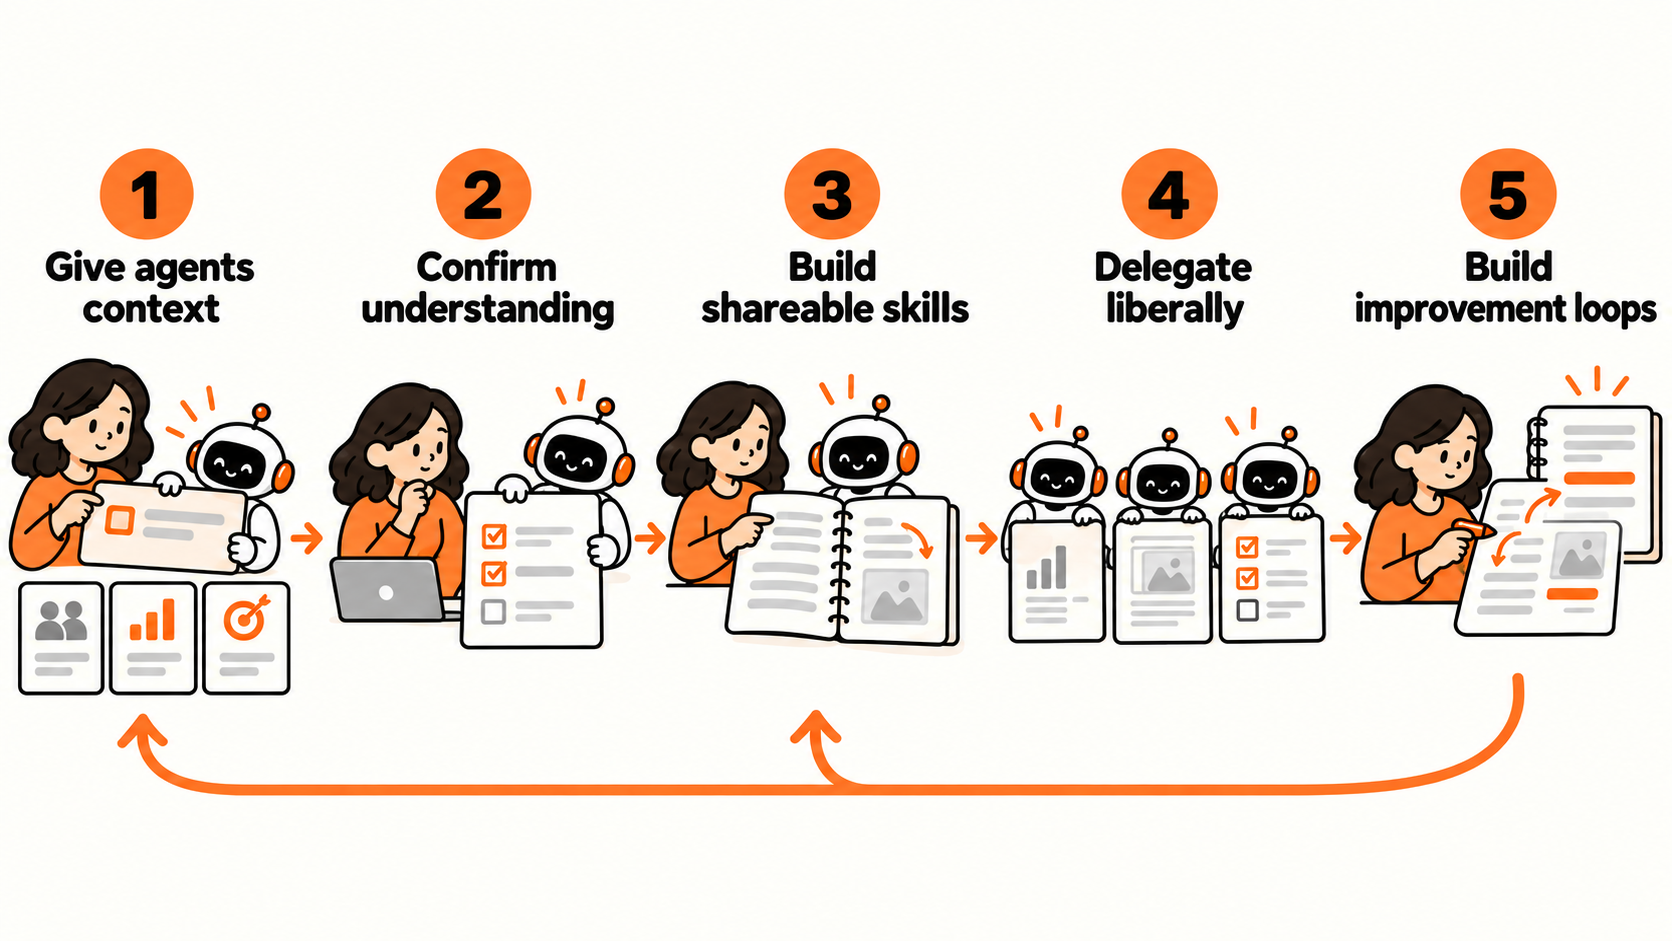
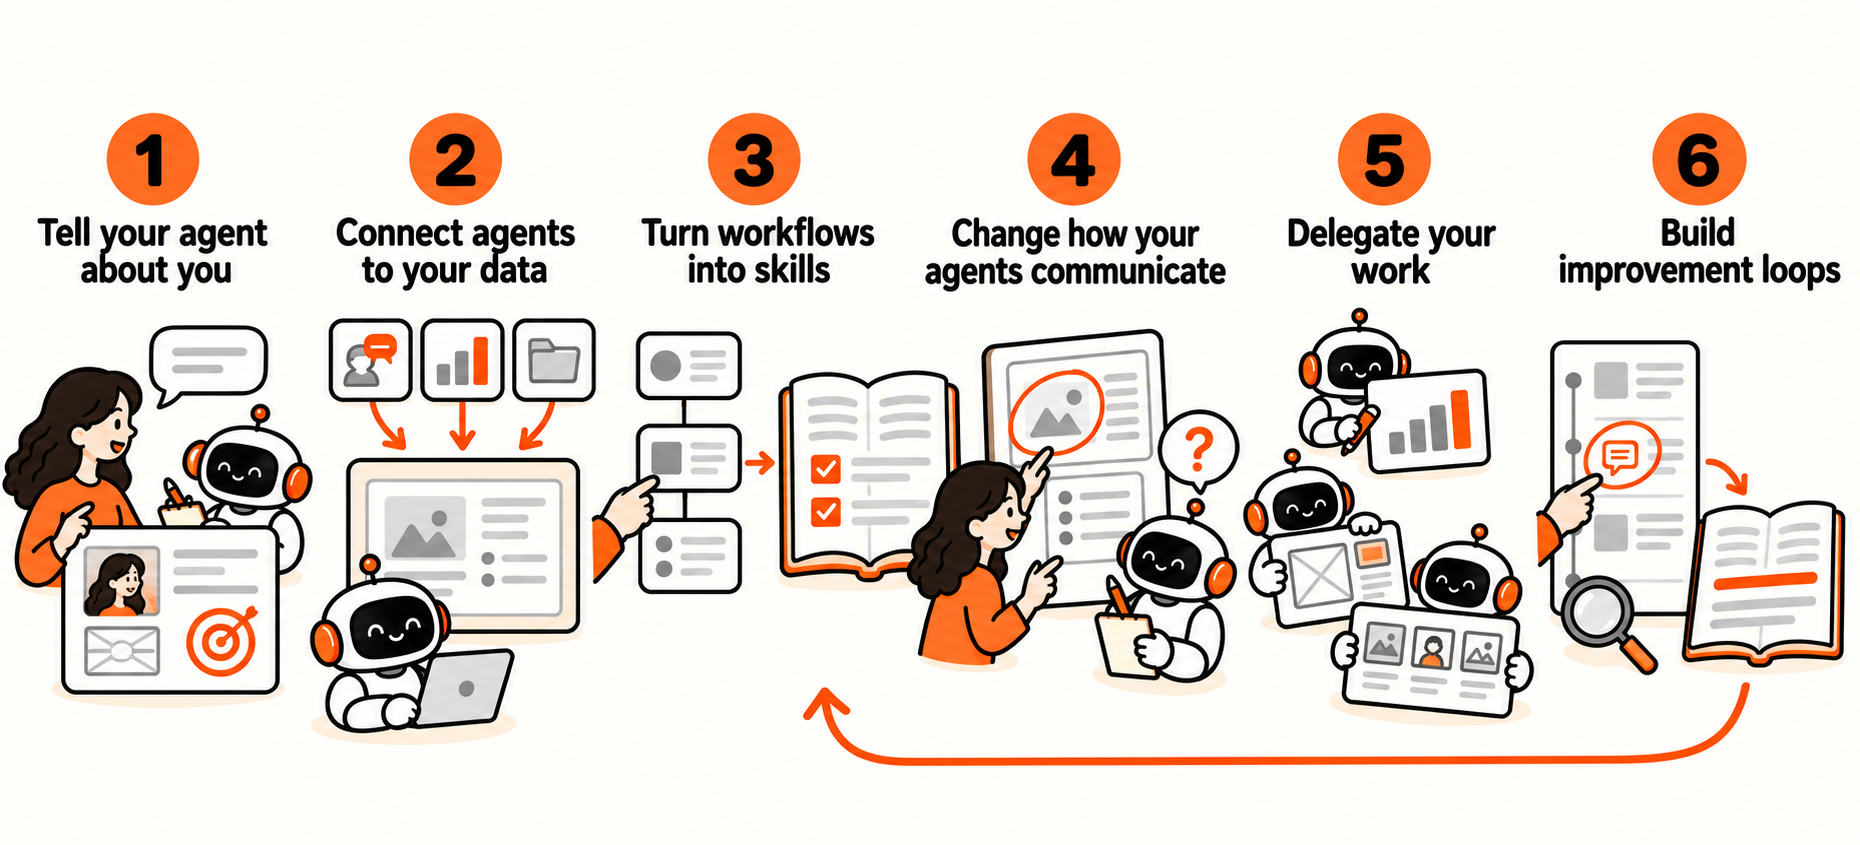
Update README to the six-step factory illustration (#20)

diff --git a/README.md b/README.md
@@ -25,15 +25,15 @@ and show me possible directions before building a prototype.
 
 ## Set up and improve your factory
 
-![Give agents context, confirm understanding, build shareable skills, delegate, and build improvement loops.](assets/build-product-factory.png)
+![Tell your agent about you, connect agents to your data, turn workflows into skills, change how your agents communicate, delegate your work, and build improvement loops. Feedback returns to skills at step 3.](assets/build-product-factory.png)
 
 | Step | Workflow or tool | What you get |
 | --- | --- | --- |
 | Tell your agent about you | [`get-to-know-me`](skills/get-to-know-me/SKILL.md) | A profile of your role, current work, goals, and preferences for you to review. |
 | Connect agents to your data | [`connect-my-data`](skills/connect-my-data/SKILL.md) | Checked source access, important context, and a reusable brief. |
 | Turn workflows into skills | [`turn-workflows-into-skills`](skills/turn-workflows-into-skills/SKILL.md) | Find skills that fit your role and projects, install existing ones, or capture your method in new ones. |
-| Change how agents communicate | [`product-factory`](skills/product-factory/SKILL.md#clarify-before-dependent-work) and [`review-with-me`](skills/review-with-me/SKILL.md) | Clarifying questions and actual work you can inspect and respond to. |
-| Delegate to coworkers | [`product-factory`](skills/product-factory/SKILL.md), [`make-it-work`](skills/make-it-work/SKILL.md), and native delegation tools | Bounded assignments and checked results. |
+| Change how your agents communicate | [`product-factory`](skills/product-factory/SKILL.md#clarify-before-dependent-work) and [`review-with-me`](skills/review-with-me/SKILL.md) | Clarifying questions and actual work you can inspect and respond to. |
+| Delegate your work | [`product-factory`](skills/product-factory/SKILL.md), [`make-it-work`](skills/make-it-work/SKILL.md), and native delegation tools | Bounded assignments and checked results. |
 | Build improvement loops | [`inspect-traces`](skills/inspect-traces/SKILL.md), [`make-an-eval`](skills/make-an-eval/SKILL.md), then an available hill-climbing workflow as needed | A diagnosed failure, replayable evaluation, and a supported change. |
 
 Invoke a skill with a request such as `$connect-my-data for this project`. Reuse existing context and decisions; run only the steps you need. See the [setup workflow](skills/product-factory/references/factory-setup.md) for handoffs.
